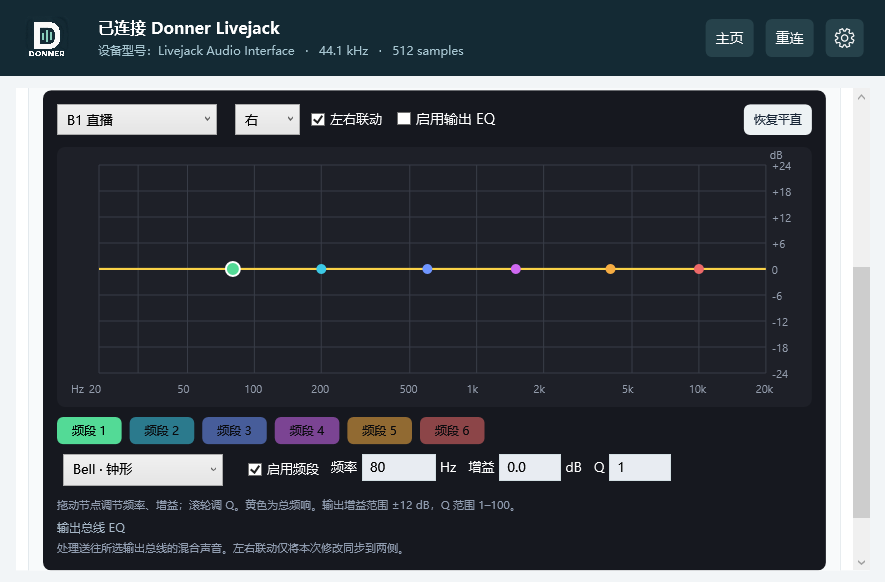
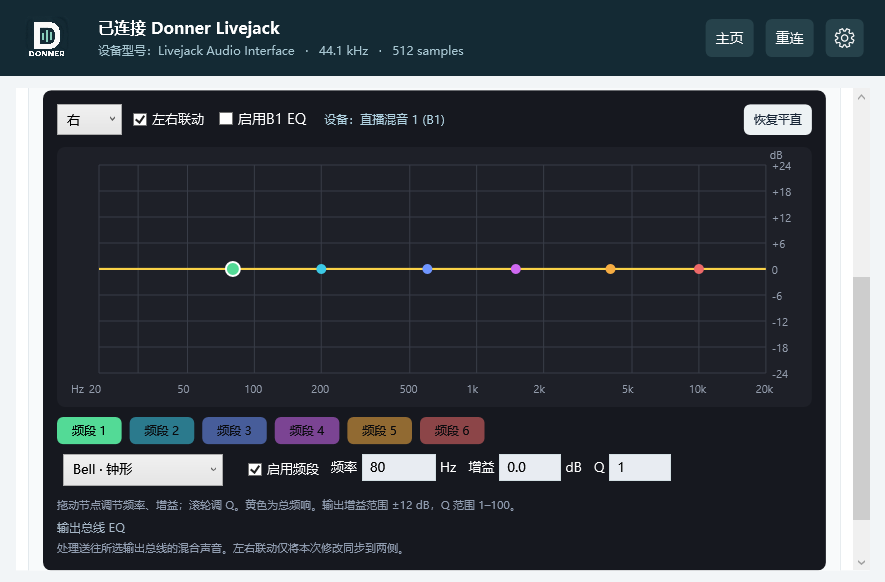
Use output EQ buttons and device captions in v1.37

Changed region(s): [[0.061, 0.1546, 0.5492, 0.2474], [0.9458, 0.4639, 1.0, 0.4948]]

diff --git a/src/Donner.Panel/MixerPanel.cs b/src/Donner.Panel/MixerPanel.cs
@@ -24,7 +24,9 @@ internal sealed class MixerPanel:Border,IDisposable
     private bool updating,wasConnected,disposed;
     private readonly List<Button> microphoneEqButtons=[];
     private readonly List<System.Windows.Shapes.Ellipse> microphoneEqDots=[];
-    private int selectedMicrophone;
+    private int selectedMicrophone,selectedOutput;
+    private readonly List<Button> outputEqButtons=[];
+    private readonly List<System.Windows.Shapes.Ellipse> outputEqDots=[];
     private readonly EqEditor inputEditor;
     private readonly EqEditor outputEditor;
     internal IMixerClient Client=>client;
@@ -35,7 +37,8 @@ internal sealed class MixerPanel:Border,IDisposable
     {
         this.client=client;microphoneEq=new(client as VoicemeeterClient,eqStorage is null?null:Path.Combine(eqStorage,"microphone-eq.json"));
         inputEditor=new(microphoneEq,SelectedInputDevice);inputEditor.TargetChanged+=UpdateMicrophoneSelection;microphoneEq.Changed+=UpdateMicrophoneEqDot;
-        outputEditor=new(new OutputEqSource(key=>pending.TryGetValue(key,out var value)?value:ReadValue(key),Queue,()=>{try{return (int)client.Get("Option.sr") is var rate&&rate>=8000?rate:48000;}catch(IOException){return 48000;}}));
+        var outputSource=new OutputEqSource(key=>pending.TryGetValue(key,out var value)?value:ReadValue(key),Queue,()=>{try{return (int)client.Get("Option.sr") is var rate&&rate>=8000?rate:48000;}catch(IOException){return 48000;}});
+        outputEditor=new(outputSource,SelectedOutputDevice);outputEditor.TargetChanged+=UpdateOutputSelection;outputSource.EnabledChanged+=UpdateOutputEqDot;
         Background=new SolidColorBrush(Color.FromRgb(248,250,251));BorderBrush=new SolidColorBrush(Color.FromRgb(227,233,237));
         BorderThickness=new Thickness(1);CornerRadius=new CornerRadius(8);Padding=new Thickness(14);Margin=new Thickness(0);
         var body=new StackPanel();Child=body;var heading=new DockPanel();body.Children.Add(heading);
@@ -77,7 +80,7 @@ internal sealed class MixerPanel:Border,IDisposable
         if(index<3)
         {
             var combo=new ComboBox{MinWidth=0,Height=29,FontSize=11,Margin=new Thickness(0,6,0,4),ToolTip="选择音频设备；更改会重新连接音频引擎。"};box.Children.Add(combo);devices.Add((combo,input,index));
-            combo.SelectionChanged+=(_,_)=>{if(!updating&&combo.SelectedItem is MixerDevice choice)Attempt(()=>client.SetDevice(input,index,choice));if(input)inputEditor.RefreshTargetInfo();};
+            combo.SelectionChanged+=(_,_)=>{if(!updating&&combo.SelectedItem is MixerDevice choice)Attempt(()=>client.SetDevice(input,index,choice));if(input)inputEditor.RefreshTargetInfo();else outputEditor.RefreshTargetInfo();};
         }
         else box.Children.Add(new TextBlock{Text=input?"虚拟播放输入":"虚拟录音输出",FontSize=11,HorizontalAlignment=HorizontalAlignment.Center,Margin=new Thickness(0,10,0,8)});
         var faderRow=new Grid{Height=94};faderRow.ColumnDefinitions.Add(new());faderRow.ColumnDefinitions.Add(new(){Width=new GridLength(14)});box.Children.Add(faderRow);
@@ -118,6 +121,15 @@ internal sealed class MixerPanel:Border,IDisposable
         readers.Add(()=>{if(!slider.IsMouseCaptureWithin&&!value.IsKeyboardFocusWithin&&!pending.ContainsKey(prefix+".Gain")){slider.Value=ReadValue(prefix+".Gain");value.Text=GainText();}});
         var switches=new WrapPanel{HorizontalAlignment=HorizontalAlignment.Center};box.Children.Add(switches);
         AddCheck(switches,"静音",prefix+".Mute");AddCheck(switches,"单声道",prefix+".Mono");
+        if(!input)
+        {
+            var button=new Button{FontSize=11,Padding=new Thickness(8,4,8,4),Margin=new Thickness(0,8,0,3),Tag=$"OutputEq.{index}"};
+            var caption=new StackPanel{Orientation=Orientation.Horizontal};caption.Children.Add(new TextBlock{Text=$"{(index<3?$"A{index+1}":$"B{index-2}")} EQ",VerticalAlignment=VerticalAlignment.Center});
+            var dot=new System.Windows.Shapes.Ellipse{Width=8,Height=8,Margin=new Thickness(8,0,0,0),VerticalAlignment=VerticalAlignment.Center,Tag=$"OutputEqDot.{index}"};caption.Children.Add(dot);button.Content=caption;box.Children.Add(button);outputEqButtons.Add(button);outputEqDots.Add(dot);
+            UpdateOutputEqDot(index,false);UpdateOutputSelection(selectedOutput);
+            button.Click+=(_,_)=>{outputEditor.SelectInput(index);outputEditor.BringIntoView();};
+            readers.Add(()=>UpdateOutputEqDot(index,(pending.TryGetValue($"Bus[{index}].EQ.on",out var state)?state:ReadValue($"Bus[{index}].EQ.on"))>.5f));
+        }
         if(input)
         {
             var routes=new WrapPanel{HorizontalAlignment=HorizontalAlignment.Center,Margin=new Thickness(0,7,0,5)};box.Children.Add(routes);
@@ -127,6 +139,23 @@ internal sealed class MixerPanel:Border,IDisposable
                 box.Children.Add(micEq);microphoneEqButtons.Add(micEq);microphoneEqDots.Add(dot);UpdateMicrophoneEqDot(index);UpdateMicrophoneSelection(selectedMicrophone);micEq.Click+=(_,_)=>{inputEditor.SelectInput(index);inputEditor.BringIntoView();};}
             if(index<3){AddNumber(box,"压缩",prefix+".Comp",0,10,.1f);AddNumber(box,"噪声门",prefix+".Gate",0,10,.1f);}
             else for(int band=1;band<=3;band++)AddNumber(box,new[]{"低频","中频","高频"}[band-1],prefix+$".EQGain{band}",-12,12,.1f);
+        }
+    }
+    private string SelectedOutputDevice(int index)=>index<3?devices.FirstOrDefault(d=>!d.Input&&d.Index==index).Combo?.SelectedItem?.ToString()??"未选择":$"直播混音 {index-2} (B{index-2})";
+    private void UpdateOutputEqDot(int index,bool enabled)
+    {
+        if(index<0||index>=outputEqDots.Count)return;
+        var color=enabled?Color.FromRgb(35,198,116):Color.FromRgb(145,157,167);
+        if(outputEqDots[index].Fill is not SolidColorBrush previous||previous.Color!=color)outputEqDots[index].Fill=new SolidColorBrush(color);
+        outputEqDots[index].ToolTip=enabled?"EQ 已启用":"EQ 未启用";
+    }
+    private void UpdateOutputSelection(int index)
+    {
+        selectedOutput=index;
+        for(int i=0;i<outputEqButtons.Count;i++)
+        {
+            bool active=i==index;var button=outputEqButtons[i];
+            button.Background=new SolidColorBrush(active?Color.FromRgb(20,119,159):Color.FromRgb(235,242,245));button.Foreground=active?Brushes.White:new SolidColorBrush(Color.FromRgb(22,42,52));button.FontWeight=active?FontWeights.SemiBold:FontWeights.Normal;
         }
     }
     private void UpdateMicrophoneEqDot(int index)
@@ -210,7 +239,7 @@ internal sealed class MixerPanel:Border,IDisposable
                 try{foreach(var read in readers)read();
                     foreach(var d in devices)if(!d.Combo.IsDropDownOpen&&!d.Combo.IsKeyboardFocusWithin){var name=client.DeviceName(d.Input,d.Index);if(d.Combo.SelectedItem is not MixerDevice selected||selected.Name!=name)d.Combo.SelectedItem=d.Combo.Items.Cast<MixerDevice>().FirstOrDefault(x=>x.Name==name);}}
                 finally{updating=false;}
-                inputEditor.RefreshTargetInfo();
+                inputEditor.RefreshTargetInfo();outputEditor.RefreshTargetInfo();
                 nextRead=now+500;
             }
         });

diff --git a/src/Donner.Panel/MixerSmoke.cs b/src/Donner.Panel/MixerSmoke.cs
@@ -143,7 +143,23 @@ public partial class MainWindow
         if(outputFader.Value!=0||fake.Values.GetValueOrDefault("Bus[0].Gain")!=0||Math.Abs(fake.Values.GetValueOrDefault("Strip[0].Gain")-.1f)>.001)throw new Exception("输出归零作用到了错误的通道。");
         fake.Values["Bus[0].Mono"]=2;panel.Poll(true);
         if(Visuals<CheckBox>(panel).First(x=>x.Content?.ToString()=="单声道").IsChecked==true)throw new Exception("立体声反转被显示成了单声道。");
-        var eqBusCombo=Visuals<ComboBox>(panel).First(x=>x.Items.Count==5&&x.Items[0]?.ToString()=="A1 监听");eqBusCombo.SelectedIndex=3;panel.Poll(true);
+        var outputButtons=Visuals<Button>(panel).Where(x=>x.Tag?.ToString()?.StartsWith("OutputEq.")==true).ToArray();
+        if(outputButtons.Length!=5)throw new Exception("输出EQ选择按钮数量不正确。");
+        var inlineOutput=Visuals<EqEditor>(panel).Single();
+        if(inlineOutput.SelectedTarget!=0)throw new Exception("输出EQ默认没有选择A1。");
+        var outputCombos=Visuals<ComboBox>(panel).Where(x=>x.ItemsSource is MixerDevice[]).Take(3).ToArray();outputCombos[0].SelectedIndex=1;panel.Poll(true);
+        var outputCaption=Visuals<TextBlock>(inlineOutput).Single(x=>x.Tag?.ToString()=="EqDevice");
+        if(!outputCaption.Text.Contains(outputCombos[0].SelectedItem!.ToString()!))throw new Exception("输出EQ栏未显示已选设备。");
+        outputButtons[3].RaiseEvent(new RoutedEventArgs(Button.ClickEvent));panel.Poll(true);
+        if(inlineOutput.SelectedTarget!=3||!outputCaption.Text.Contains("B1")||((SolidColorBrush)outputButtons[0].Background).Color==((SolidColorBrush)outputButtons[3].Background).Color)throw new Exception("输出按钮切换后EQ目标、名称或高亮未同步。");
+        if(Visuals<ComboBox>(inlineOutput).Any(x=>x.Items.Count==5))throw new Exception("输出EQ内部下拉框仍显示。");
+        var outputEnable=Visuals<CheckBox>(inlineOutput).Single(x=>x.Content?.ToString()=="启用B1 EQ");
+        outputEnable.IsChecked=true;outputEnable.RaiseEvent(new RoutedEventArgs(CheckBox.ClickEvent));
+        var outputDot=Visuals<System.Windows.Shapes.Ellipse>(outputButtons[3]).Single();var enabledColor=((SolidColorBrush)outputDot.Fill).Color;
+        if(enabledColor.G<enabledColor.R*2)throw new Exception("启用输出EQ没有立即显示绿点。");panel.Poll(true);
+        if(fake.Values.GetValueOrDefault("Bus[3].EQ.on")!=1)throw new Exception("启用输出EQ写入了错误总线。");
+        outputEnable.IsChecked=false;outputEnable.RaiseEvent(new RoutedEventArgs(CheckBox.ClickEvent));panel.Poll(true);
+        if(Math.Abs(((SolidColorBrush)outputDot.Fill).Color.R-((SolidColorBrush)outputDot.Fill).Color.G)>30)throw new Exception("关闭输出EQ没有显示灰点。");
         await Dispatcher.InvokeAsync(()=>{},DispatcherPriority.ApplicationIdle);
         var freq=Visuals<TextBox>(panel).First(x=>x.Text=="1000");freq.Text="2500";freq.RaiseEvent(new System.Windows.Input.KeyboardFocusChangedEventArgs(System.Windows.Input.Keyboard.PrimaryDevice,Environment.TickCount,freq,null){RoutedEvent=System.Windows.Input.Keyboard.LostKeyboardFocusEvent});panel.Poll(true);
         if(fake.Values.GetValueOrDefault("Bus[3].EQ.channel[0].cell[0].f")!=2500||fake.Values.GetValueOrDefault("Bus[3].EQ.channel[1].cell[0].f")!=2500)throw new Exception("EQ左右联动未作用于所选直播总线。");

diff --git a/src/Donner.Panel/EqEditor.cs b/src/Donner.Panel/EqEditor.cs
@@ -42,8 +42,8 @@ internal sealed class EqEditor:Border,IDisposable
         foreach(var height in new[]{GridLength.Auto,new GridLength(260),GridLength.Auto,GridLength.Auto})body.RowDefinitions.Add(new(){Height=height});
         var header=new DockPanel{Margin=new Thickness(0,0,0,12)};body.Children.Add(header);
         var reset=new Button{Content="恢复平直",FontSize=12,Padding=new Thickness(10,6,10,6),Margin=new Thickness(12,0,0,0)};DockPanel.SetDock(reset,Dock.Right);header.Children.Add(reset);
-        var headerLeft=new WrapPanel();header.Children.Add(headerLeft);if(source.IsOutput){headerLeft.Children.Add(input);headerLeft.Children.Add(channel);headerLeft.Children.Add(linked);}headerLeft.Children.Add(enabled);
-        if(!source.IsOutput){headerLeft.Children.Add(new TextBlock{Text="输出增益",VerticalAlignment=VerticalAlignment.Center,Margin=new Thickness(20,0,8,0)});headerLeft.Children.Add(preamp);headerLeft.Children.Add(new TextBlock{Text="dB",VerticalAlignment=VerticalAlignment.Center,Margin=new Thickness(5,0,0,0)});headerLeft.Children.Add(deviceLabel);}
+        var headerLeft=new WrapPanel();header.Children.Add(headerLeft);if(source.IsOutput){headerLeft.Children.Add(channel);headerLeft.Children.Add(linked);}headerLeft.Children.Add(enabled);
+        if(!source.IsOutput){headerLeft.Children.Add(new TextBlock{Text="输出增益",VerticalAlignment=VerticalAlignment.Center,Margin=new Thickness(20,0,8,0)});headerLeft.Children.Add(preamp);headerLeft.Children.Add(new TextBlock{Text="dB",VerticalAlignment=VerticalAlignment.Center,Margin=new Thickness(5,0,0,0)});}headerLeft.Children.Add(deviceLabel);
         Grid.SetRow(Graph,1);body.Children.Add(Graph);
         var editor=new StackPanel{Margin=new Thickness(0,10,0,0)};Grid.SetRow(editor,2);body.Children.Add(editor);editor.Children.Add(bandButtons);
         for(int i=0;i<6;i++)
@@ -90,8 +90,7 @@ internal sealed class EqEditor:Border,IDisposable
     }
     internal void RefreshTargetInfo()
     {
-        if(source.IsOutput)return;
-        enabled.Content=$"启用输入 {index+1} EQ";
+        enabled.Content=source.IsOutput?$"启用{(index<3?$"A{index+1}":$"B{index-2}")} EQ":$"启用输入 {index+1} EQ";
         string text="设备："+(deviceName?.Invoke(index)??"未选择");
         if(deviceLabel.Text!=text){deviceLabel.Text=text;deviceLabel.ToolTip=text;}
     }

diff --git a/src/Donner.Panel/MainWindow.xaml.cs b/src/Donner.Panel/MainWindow.xaml.cs
@@ -53,7 +53,7 @@ public partial class MainWindow : Window
         StreamModeCombo.ItemsSource=new[]{new DriverOption(1,"按需开启"),new DriverOption(2,"持续开启")};
         OutputFormatCombo.SelectionChanged+=(_,_)=>{if(!rendering&&OutputFormatCombo.SelectedItem is DriverOption option)selectedFormat=option.Value;};
         StreamModeCombo.SelectionChanged+=(_,_)=>{if(!rendering&&StreamModeCombo.SelectedItem is DriverOption option)selectedStreamMode=option.Value;};
-        Title="Donner 中文控制面板 · v1.36 · topsai (范斯特洛夫斯基)";
+        Title="Donner 中文控制面板 · v1.37 · topsai (范斯特洛夫斯基)";
         AboutVersion.Text="版本 "+typeof(MainWindow).Assembly.GetName().Version?.ToString(3);
         var smoke=Array.IndexOf(args,"--smoke");
         smokeDirectory=smoke>=0 && smoke+1<args.Length?Path.GetFullPath(args[smoke+1]):null;
@@ -248,7 +248,7 @@ public partial class MainWindow : Window
             try
             {
                 Directory.CreateDirectory(reconnectCheckDirectory);
-                File.WriteAllText(Path.Combine(reconnectCheckDirectory,"state.json"),JsonSerializer.Serialize(new {Version="1.36",ProcessId=Environment.ProcessId,Updated=DateTimeOffset.Now,d.Connected,d.Demo,d.Status,d.SampleRate,d.BufferSize,DeviceChanges=deviceChanges,NotificationRegistered=notifications is not null},new JsonSerializerOptions {WriteIndented=true}));
+                File.WriteAllText(Path.Combine(reconnectCheckDirectory,"state.json"),JsonSerializer.Serialize(new {Version="1.37",ProcessId=Environment.ProcessId,Updated=DateTimeOffset.Now,d.Connected,d.Demo,d.Status,d.SampleRate,d.BufferSize,DeviceChanges=deviceChanges,NotificationRegistered=notifications is not null},new JsonSerializerOptions {WriteIndented=true}));
             }
             catch(IOException){}
         }

diff --git a/src/Donner.Panel/EqEditorSource.cs b/src/Donner.Panel/EqEditorSource.cs
@@ -16,6 +16,7 @@ internal interface IEqEditorSource
 }
 internal sealed class OutputEqSource(Func<string,float> read,Action<string,float> write,Func<int> rate):IEqEditorSource
 {
+    internal event Action<int,bool>? EnabledChanged;
     private readonly Dictionary<(int,int),(long Updated,MicrophoneEqSettings Settings)> cache=[];
     private static MicrophoneEqSettings Copy(MicrophoneEqSettings value)=>value with{Bands=(EqBand[])value.Bands.Clone()};
     public bool IsOutput=>true;
@@ -58,5 +59,6 @@ internal sealed class OutputEqSource(Func<string,float> read,Action<string,float
         foreach(var pair in changes)MixerRules.Validate(pair.Item1,pair.Item2);
         foreach(var pair in changes)write(pair.Item1,pair.Item2);
         cache[(target,channel)]=(Environment.TickCount64,Copy(settings));if(linked)cache.Remove((target,1-channel));
+        if(old.Enabled!=settings.Enabled)EnabledChanged?.Invoke(target,settings.Enabled);
     }
 }

diff --git a/docs/mixer.md b/docs/mixer.md
@@ -119,3 +119,6 @@ v1.35：输入条带、选择按钮、启用开关统一为“输入 N / 输入 
 
 
 v1.36：三个输入 EQ 按钮文字后加入状态圆点，绿色表示对应输入 EQ 已勾选启用，灰色表示未启用。状态圆点与当前编辑目标的蓝色高亮独立；切换编辑目标不会改变其他输入的启用状态。
+
+
+v1.37：输出 EQ 改为与输入相同的按钮选择方式，A1/A2/A3/B1/B2 各有 EQ 按钮与独立启用圆点，默认选中 A1，当前编辑目标蓝色高亮。EQ 栏显示 A1–A3 所选设备的完整名称，B1/B2 显示对应虚拟直播混音名称；随按钮和设备选择同步更新。保留左右声道、左右联动及恢复平直，切换目标只读取参数。
